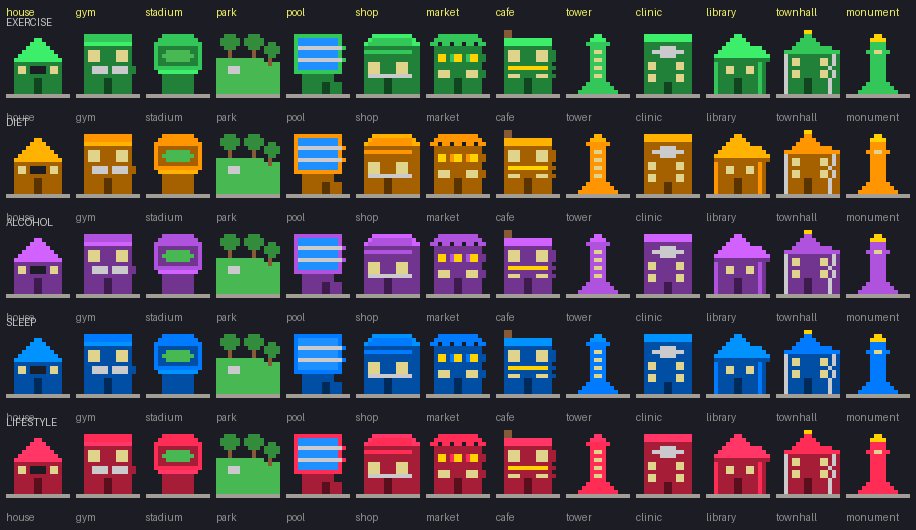
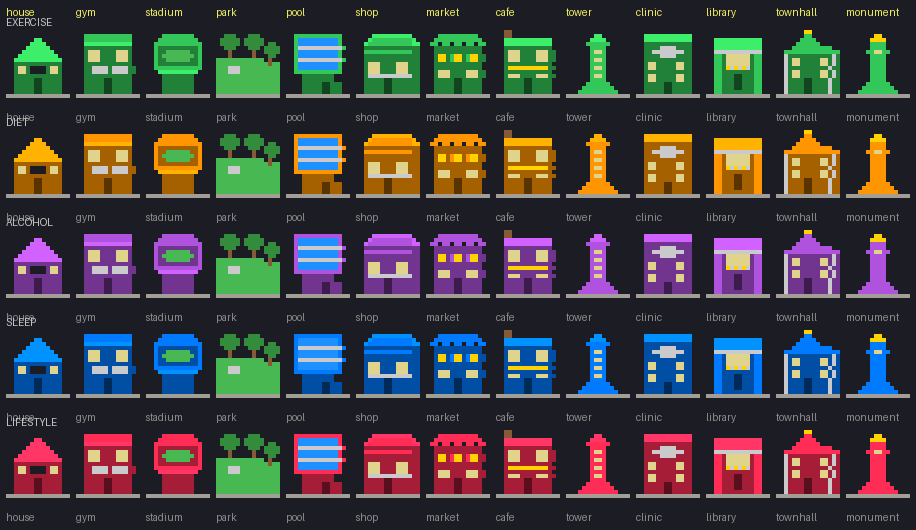
Redesign library sprite: flat pediment + columns (distinct from house)
Before: triangular roof (R chars) — visually identical to house at small sizes
After:  flat 3-row pediment + white ledge + 2px-wide side columns (BB)
        + 3-row bookshelf window (W) + book spines (O/X accents) + centered door

house:   peaked triangle roof, 2 square windows side-by-side
library: flat rectangular pediment, large bookshelf window between columns

https://claude.ai/code/session_01BxGwtdGEQeejG3jfGo1aRU

diff --git a/tools/generate_pixel_art.py b/tools/generate_pixel_art.py
@@ -302,23 +302,25 @@ GRIDS = {
     ],
 
     # ── Library (lifestyle) ───────────────────────────────────────────────
+    # ギリシャ神殿風: 平屋根ペディメント + 2本太柱 + 本棚窓
+    # house との差別化: 三角屋根なし・柱廊・本スパイン
     "library": [
         "................",   #  0
-        ".......RR.......",   #  1
-        "......RRRR......",   #  2
-        ".....RRRRRR.....",   #  3
-        "....RRRRRRRRRR..",   #  4
-        "...RRRRRRRRRRRR.",   #  5
-        "..RRRRRRRRRRRRRR",   #  6
-        "..DDDDDDDDDDDDDD",   #  7
-        "..BDDDDDDDDDDBD.",   #  8  ← columns
-        "..BDDWWDDDWWDBD.",   #  9
-        "..BDDWWDDDWWDBD.",   # 10
-        "..BDDDDDDDDDDBD.",   # 11
-        "..BDDDDFFDDDDBD.",   # 12
-        "..BDDDDFFDDDDBD.",   # 13
-        "..BDDDDFFDDDDBD.",   # 14
-        "..BDDDDFFDDDDBD.",   # 15
+        "................",   #  1
+        "..RRRRRRRRRRRR..",   #  2  ← flat pediment top
+        "..RRRRRRRRRRRR..",   #  3  ← flat pediment
+        "..RRRRRRRRRRRR..",   #  4  ← flat pediment
+        "..XXXXXXXXXXXX..",   #  5  ← white ledge line
+        "..BBDWWWWWWDBB..",   #  6  ← columns(BB) + bookshelf window(W)
+        "..BBDWWWWWWDBB..",   #  7
+        "..BBDWWWWWWDBB..",   #  8
+        "..BBDOXOXOXDBB..",   #  9  ← book spines (O=gold, X=white)
+        "..BBDDDDDDDDBB..",   # 10
+        "..BBDDDFFDDDBB..",   # 11  ← door (center)
+        "..BBDDDFFDDDBB..",   # 12
+        "..BBDDDFFDDDBB..",   # 13
+        "..BBDDDFFDDDBB..",   # 14
+        "..BBDDDDDDDDBB..",   # 15
         "GGGGGGGGGGGGGGGG",   # 16
         "................",   # 17
         "................",   # 18
